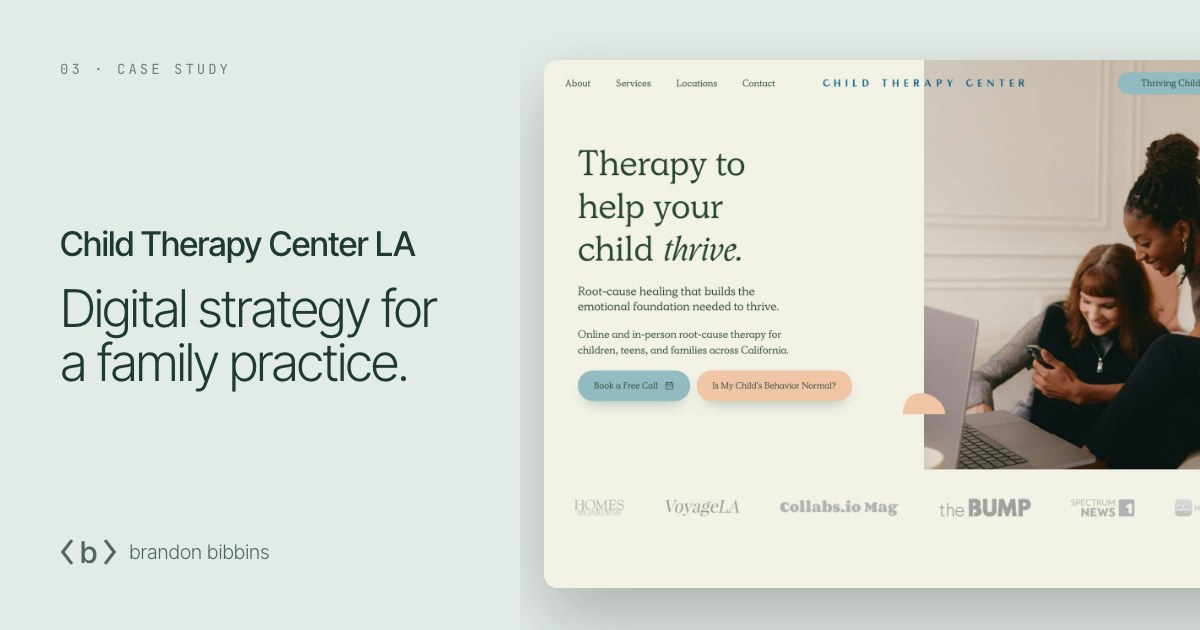
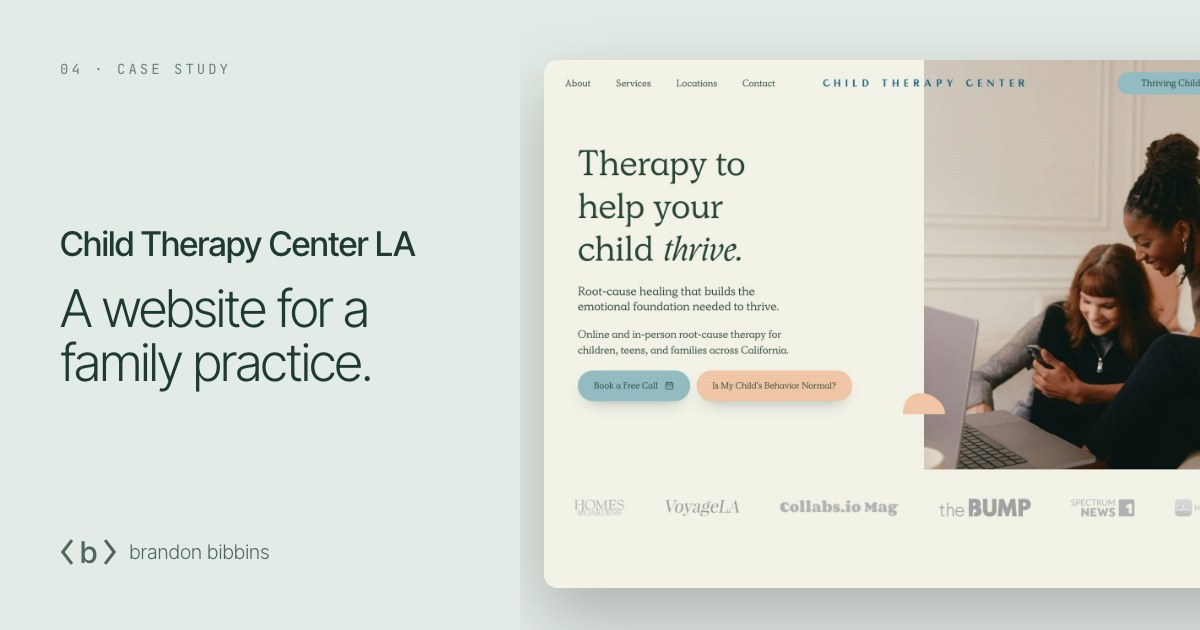
Add Audrey's Nest; credit Child Therapy Center LA as website development
- New case study at /work/audreys-nest: website design and
  development for a Los Angeles maternal wellness practice
- Child Therapy Center LA now leads with website development
- Homepage reads five highlight projects

Changed region(s): [[0.0308, 0.4524, 0.37, 0.6333]]

diff --git a/lib/work.ts b/lib/work.ts
@@ -1,6 +1,7 @@
 // Case studies shown on the homepage and at /work/[slug].
-// Wording rules: describe Brandon's role only. Child Therapy Center LA: no sole-authorship
-// or specific deliverables. Liquid I.V.: the public website is brand context only.
+// Wording rules: describe Brandon's role only. Child Therapy Center LA: website development
+// and digital strategy, without claiming sole authorship. Liquid I.V.: the public website is
+// brand context only.
 
 export type Project = {
   slug: string;
@@ -74,13 +75,36 @@ export const projects: Project[] = [
     note: 'Brand board with sample data. No real patient information is shown.',
   },
   {
+    slug: 'audreys-nest',
+    name: 'Audrey’s Nest',
+    index: '03',
+    headline: 'A calm, warm home for new mothers.',
+    summary: 'Website design and development for a maternal wellness practice in Los Angeles.',
+    role: 'Website design & development',
+    scope: ['Website design', 'Website development', 'Content management', 'Local search'],
+    url: 'https://audreysnest.com',
+    domain: 'audreysnest.com',
+    stage: '#f3eee3',
+    stageInk: '#4b5a3c',
+    images: { desktop: '/work/audreys-nest/desktop.jpg', mobile: '/work/audreys-nest/mobile.jpg', full: '/work/audreys-nest/full.jpg' },
+    overview: [
+      'Audrey’s Nest offers postpartum doula support and maternal wellness care in Los Angeles: occupational therapy, fertility Reiki and infant massage for new mothers.',
+      'I designed and built the website: a soft, welcoming experience that explains each service clearly and makes it easy to book a free consultation.',
+    ],
+    contribution: [
+      { title: 'Website design', body: 'A warm, natural look with arched photography and gentle type that works beautifully on phones.' },
+      { title: 'Website development', body: 'A fast site built with Next.js: service pages, resources and a clear path to booking.' },
+      { title: 'Easy to update', body: 'A simple content editor, so the practice can change services and articles without code.' },
+    ],
+  },
+  {
     slug: 'ctcla',
     name: 'Child Therapy Center LA',
-    index: '03',
-    headline: 'Digital strategy for a family practice.',
-    summary: 'Digital experience and technology strategy for a therapy practice serving children, teens and families.',
-    role: 'Digital experience & technology strategy',
-    scope: ['Digital experience', 'Technology strategy', 'Website optimization', 'Client engagement'],
+    index: '04',
+    headline: 'A website for a family practice.',
+    summary: 'Website development and digital strategy for a therapy practice serving children, teens and families.',
+    role: 'Website development & digital strategy',
+    scope: ['Website development', 'Digital experience', 'Technology strategy', 'Client engagement'],
     url: 'https://childtherapycenterla.com',
     domain: 'childtherapycenterla.com',
     logo: '/work/ctcla/logo.png',
@@ -89,18 +113,18 @@ export const projects: Project[] = [
     images: { desktop: '/work/ctcla/desktop.jpg', mobile: '/work/ctcla/mobile.jpg', full: '/work/ctcla/full.jpg' },
     overview: [
       'Child Therapy Center LA offers online and in-person therapy for children, teens and families across California.',
-      'My work there focuses on the digital side of the practice: how families find it, understand it and take the first step.',
+      'I develop the practice’s website and lead its digital side: how families find it, understand it and take the first step.',
     ],
     contribution: [
+      { title: 'Website development', body: 'Building and improving the website, so families can find the practice, understand it and reach out.' },
       { title: 'Digital experience', body: 'Shaping how the practice shows up online, so families feel understood before the first call.' },
       { title: 'Technology strategy', body: 'Choosing and connecting the tools the practice runs on, with privacy and simplicity in mind.' },
-      { title: 'Website optimization & engagement', body: 'Ongoing improvements to the website and to how the practice stays in touch with clients.' },
     ],
   },
   {
     slug: 'liquid-iv',
     name: 'Liquid I.V.',
-    index: '04',
+    index: '05',
     headline: 'Technology at enterprise scale.',
     summary: 'IT leadership for a nationally recognized consumer brand, part of Unilever.',
     role: 'IT Director · 2022 to present',

diff --git a/components/site/Home.tsx b/components/site/Home.tsx
@@ -206,11 +206,11 @@ export function Work() {
           <Eyebrow>Selected work</Eyebrow>
           <Reveal>
             <h2 className="mt-5 font-display text-5xl font-light leading-none tracking-[-0.04em] sm:text-7xl">
-              Four highlight projects<span className="text-fog">, 2026.</span>
+              Five highlight projects<span className="text-fog">, 2026.</span>
             </h2>
           </Reveal>
         </div>
-        <p className="max-w-sm text-mist">Two products I’ve built, a practice I advise, and the enterprise IT I lead.</p>
+        <p className="max-w-sm text-mist">Two products I’ve built, two client websites, and the enterprise IT I lead.</p>
       </div>
       <div className="flex flex-col gap-6 sm:gap-8">
         {projects.map((p) => (
